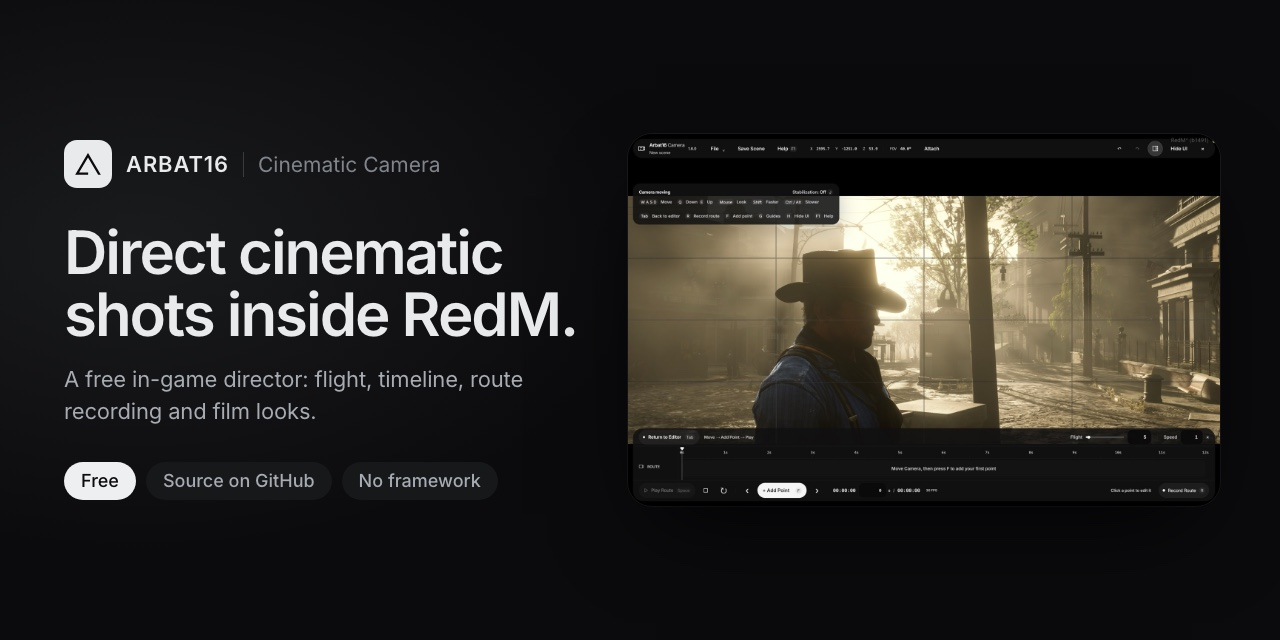
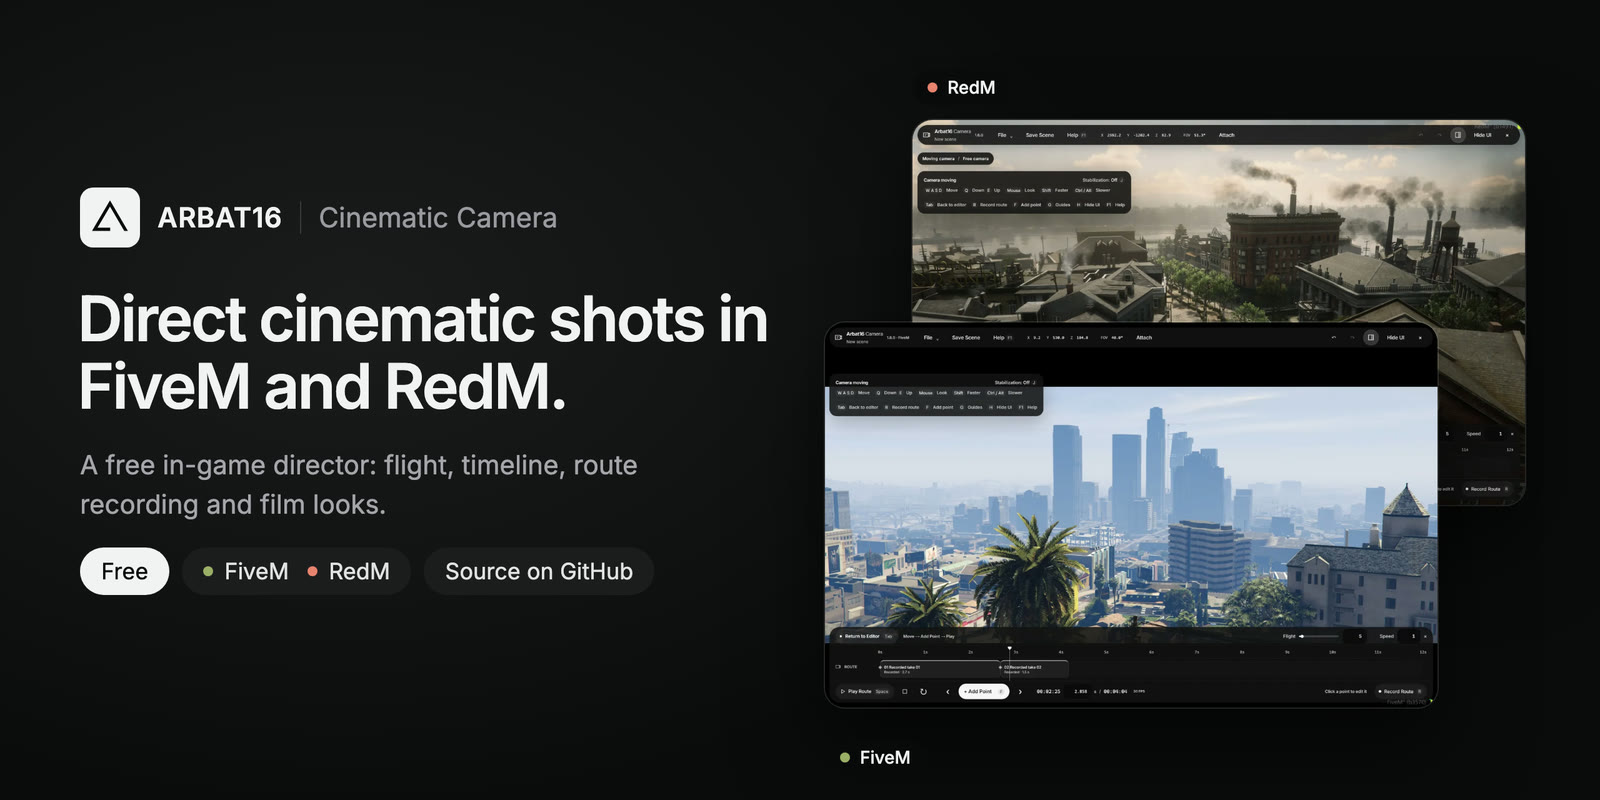
Show FiveM and RedM screenshots in README

diff --git a/README.md b/README.md
@@ -1,6 +1,6 @@
 <div align="center">
 
-<img src="docs/images/banner.jpg" alt="ARBAT16 Cinematic Camera for RedM" width="100%">
+<img src="docs/images/banner.jpg" alt="ARBAT16 Cinematic Camera for FiveM and RedM" width="100%">
 
 # ARBAT16 Cinematic Camera
 
@@ -26,45 +26,56 @@ A standalone Lua director for FiveM and RedM: free flight, saved camera angles, 
 
 <a href="https://store.arbat16.com/cinematic-camera#reel"><img src="docs/images/shot-wagon.jpg" alt="A horse cart crossing a sunlit Saint Denis street, framed at 2.39:1" width="100%"></a>
 
-<sub>RedM footage: a Saint Denis street flown and framed at 2.39:1 with the camera. Watch the clip on the <a href="https://store.arbat16.com/cinematic-camera#reel">website</a>.</sub>
+<sub><b>RedM</b>: a Saint Denis street flown and framed at 2.39:1 with the camera. Watch the clip on the <a href="https://store.arbat16.com/cinematic-camera#reel">website</a>.</sub>
 
-All screenshots and the banner on this page show **RedM**. FiveM shares the editor layout and uses its own game effects and environments.
+<img src="docs/images/shot-vinewood.jpg" alt="The Vinewood sign behind palm trees in FiveM, framed at 2.39:1" width="100%">
+
+<sub><b>FiveM</b>: the Vinewood Hills in Los Santos, framed at 2.39:1 with the interface hidden.</sub>
+
+<table>
+  <tr>
+    <td width="50%" valign="top"><img src="docs/images/shot-downtown.jpg" alt="Downtown Los Santos skyline through palm trees in FiveM" width="100%"><br><sub><b>FiveM</b>, downtown Los Santos</sub></td>
+    <td width="50%" valign="top"><img src="docs/images/shot-penthouse.jpg" alt="Penthouse kitchen and terrace over the Los Santos skyline in FiveM" width="100%"><br><sub><b>FiveM</b>, a penthouse over the city</sub></td>
+  </tr>
+</table>
+
+Every screenshot on this page is labeled with its game. Both games share the editor layout; each uses its own game effects and environments.
 
 ## Features
 
 <table>
   <tr>
     <td width="50%" valign="top">
-      <img src="docs/images/flight.jpg" alt="Flight mode with the on-screen shortcut guide" width="100%">
+      <img src="docs/images/flight-fivem.jpg" alt="Flight mode with the on-screen shortcut guide over downtown Los Santos in FiveM" width="100%"><br><sub><b>FiveM</b></sub>
       <h3>Fly it like a camera operator</h3>
       <kbd>W</kbd> <kbd>A</kbd> <kbd>S</kbd> <kbd>D</kbd> to move, <kbd>Q</kbd> <kbd>E</kbd> for height, the mouse to look. Hold <kbd>Shift</kbd> to cover ground, <kbd>Alt</kbd> or <kbd>Ctrl</kbd> to creep into position, and pick Off, Light, Medium or Strong stabilization for a steady move.
     </td>
     <td width="50%" valign="top">
-      <img src="docs/images/director.jpg" alt="Director panel and timeline in edit mode" width="100%">
+      <img src="docs/images/director.jpg" alt="Director panel and timeline in edit mode" width="100%"><br><sub><b>RedM</b></sub>
       <h3>Build the shot on a timeline</h3>
       Drop points with <kbd>F</kbd>, set how long each move takes and how it eases. Linear, Catmull-Rom and Bezier paths, six easing modes, cuts, holds, multi-select and 50 steps of undo.
     </td>
   </tr>
   <tr>
     <td width="50%" valign="top">
-      <img src="docs/images/recording.jpg" alt="Clean 2.39:1 frame of a Saint Denis street with the interface hidden" width="100%">
+      <img src="docs/images/recording.jpg" alt="Clean 2.39:1 frame of a Saint Denis street with the interface hidden" width="100%"><br><sub><b>RedM</b></sub>
       <h3>Record a move and play it back</h3>
       Press <kbd>R</kbd>, fly the shot by hand and press <kbd>R</kbd> again. Up to 30 samples a second with real timing, so a pause in your hand stays a pause on screen. Takes run up to five minutes.
     </td>
     <td width="50%" valign="top">
-      <img src="docs/images/look-western-scope.jpg" alt="Western Scope look with a 2.39:1 CinemaScope frame" width="100%">
+      <img src="docs/images/look-western-scope.jpg" alt="Western Scope look with a 2.39:1 CinemaScope frame" width="100%"><br><sub><b>RedM</b></sub>
       <h3>Six looks, seven frames</h3>
       Six ready-made presets, game-specific native filters including Black &amp; White, and frames from native to 2.39:1 CinemaScope. Tune the filter strength and save up to 40 presets of your own.
     </td>
   </tr>
   <tr>
     <td width="50%" valign="top">
-      <img src="docs/images/guides.jpg" alt="Fine 4 by 4 composition grid over a street with a horse carriage" width="100%">
+      <img src="docs/images/guides-fivem.jpg" alt="Rule of thirds guide over a Los Santos rooftop pool at sunset in FiveM" width="100%"><br><sub><b>FiveM</b></sub>
       <h3>Frame it like a cinematographer</h3>
       Press <kbd>G</kbd> for rule of thirds, golden ratio, diagonals, a fine grid, a centre cross or safe areas. Guides follow the chosen frame and hide together with the interface.
     </td>
     <td width="50%" valign="top">
-      <img src="docs/images/library.jpg" alt="Cathedral view from a saved camera with the director panel open" width="100%">
+      <img src="docs/images/library.jpg" alt="Cathedral view from a saved camera with the director panel open" width="100%"><br><sub><b>RedM</b></sub>
       <h3>Keep every angle you liked</h3>
       Save up to 100 named cameras with markers in the world, drag them onto the timeline as holds and keep whole scenes in a library tied to your license. The workspace autosaves.
     </td>
@@ -231,7 +242,7 @@ The build produces one installable resource folder with its license documents an
 
 Native checks use four reference fixtures fetched by `tools/fetch_native_references.py` at pinned commits and verified by hash. The first run needs network access; subsequent runs can use the cached fixtures offline.
 
-Tests cover the logic and interface for both games. Version 1.8.0 still needs an in-game smoke test in **FiveM and RedM**: native effects and compatibility with other camera or weather resources depend on that environment. The RedM screenshots above do not verify the universal build in either game.
+Tests cover the logic and interface for both games. Version 1.8.0 still needs an in-game smoke test in **FiveM and RedM**: native effects and compatibility with other camera or weather resources depend on that environment. The screenshots above do not replace that test.
 
 [Changes](resource/arbat16_camera/CHANGELOG.md) · [Tebex product text](resource/arbat16_camera/docs/TEBEX-DESCRIPTION.md) · [Publishing notes](resource/arbat16_camera/docs/PUBLISHING.md)
 
